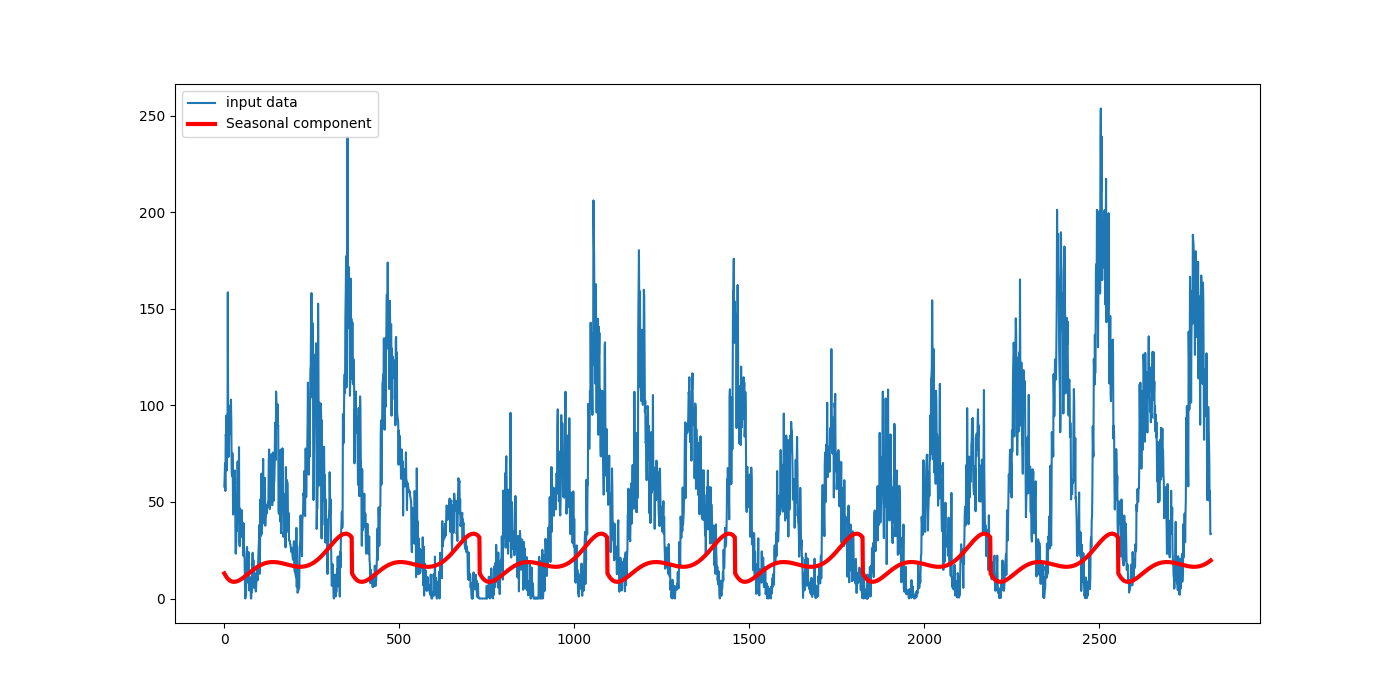
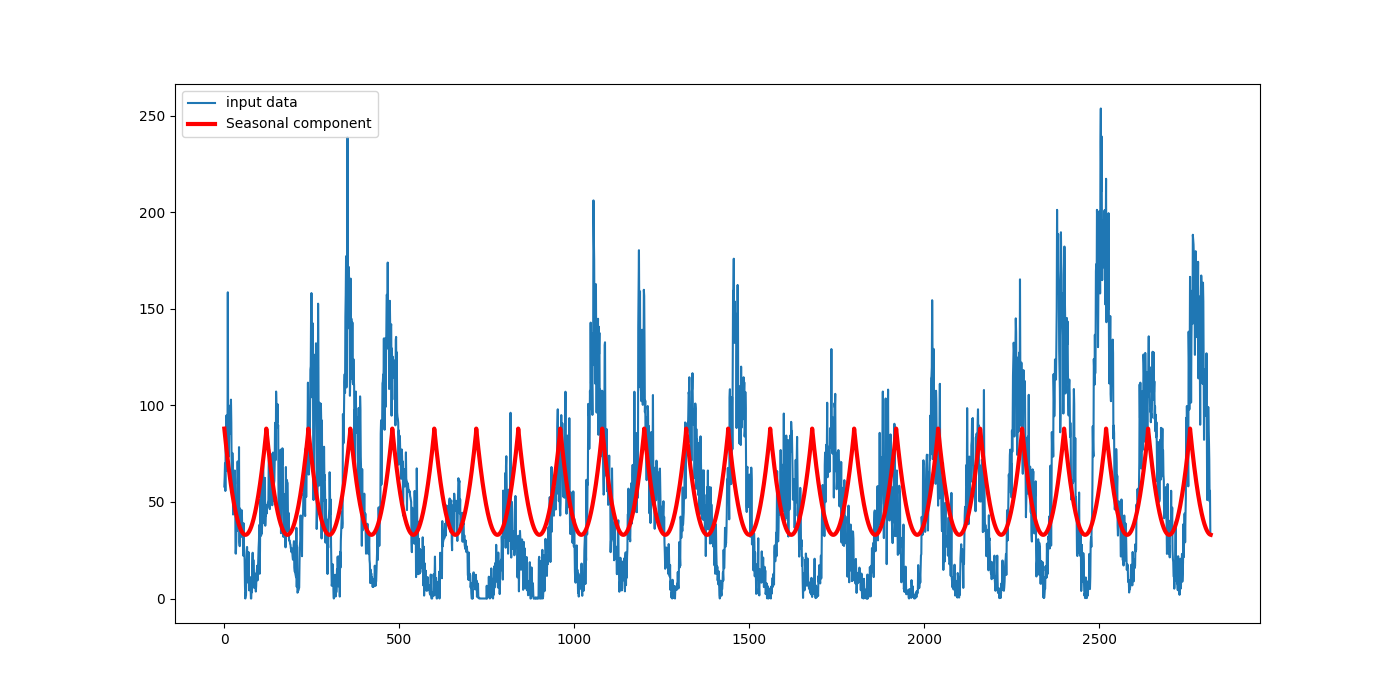
adding resample plot

Changed region(s): [[0.1536, 0.6, 0.86, 0.84], [0.1536, 0.81, 0.1843, 0.84]]

diff --git a/code/Ass1/sun.py b/code/Ass1/sun.py
@@ -45,14 +45,13 @@ plt.figure(0)
 fig = series.plot()
 plt.savefig(os.path.join(fig_dir, a + "raw_signal.png"))
 
-# plt.figure()
-# plt.plot(series["1990":"1991"])
-# plt.savefig(os.path.join(fig_dir, a + "raw_signal_1990.png"))
 
-# plt.figure()
-# plt.plot(series.loc["1986"])
-# plt.savefig(os.path.join(fig_dir, a + "raw_signal_1986.png"))
-
+print(series.to_period().head())
+print(series["1749"])
+plt.figure()
+plt.plot(series["1749":"1800"])
+plt.savefig(os.path.join(fig_dir, a + "raw_signal_1990.png"))
+plt.show()
 
 print("[INFO] Saving and printing the head of the first dataset")
 with open(os.path.join(tbl_dir, a + "raw_signal.tex"), "w") as tf:
@@ -96,20 +95,26 @@ plt.savefig(os.path.join(fig_dir, a + "seasonal_decompose.png"))
 
 
 ############################################################################
-#########          Seasonal Modeling (fiting polynomial)          ##########
+#########          Seasonal Modeling (fitting polynomial)         ##########
 ############################################################################
-print("[INFO] Plot the decomposition by fiting polynomial method...")
-X = [i % 365 for i in range(0, len(series))]
+resample = series.resample("AS").mean()
+plt.figure()
+plt.plot(resample)
+plt.savefig(os.path.join(fig_dir, a + "resample.png"))
+
+
+print("[INFO] Plot the decomposition by fitting polynomial method...")
+X = [i % 120 for i in range(0, len(series))]
 y = series.values
 
-degree = 5
+degree = 2
 coef = np.polyfit(X, y, degree)
 print("[INFO] polynomial Coefficients are :\n%s\n" % coef)
 
 
 curve = list()
 for i in range(len(X)):
-    value = 13
+    value = 88
     for d in range(degree):
         value += X[i] ** (degree - d) * coef[d]
     curve.append(value)

diff --git a/code/Ass1/Temp.py b/code/Ass1/Temp.py
@@ -98,6 +98,13 @@ plt.savefig(os.path.join(fig_dir, a + "seasonal_decompose.png"))
 ############################################################################
 #########          Seasonal Modeling (fiting polynomial)          ##########
 ############################################################################
+
+resample = series.resample("M").mean()
+plt.figure()
+plt.plot(resample)
+plt.savefig(os.path.join(fig_dir, a + "resample.png"))
+
+
 print("[INFO] Plot the decomposition by fiting polynomial method...")
 X = [i % 365 for i in range(0, len(series))]
 y = series.values
